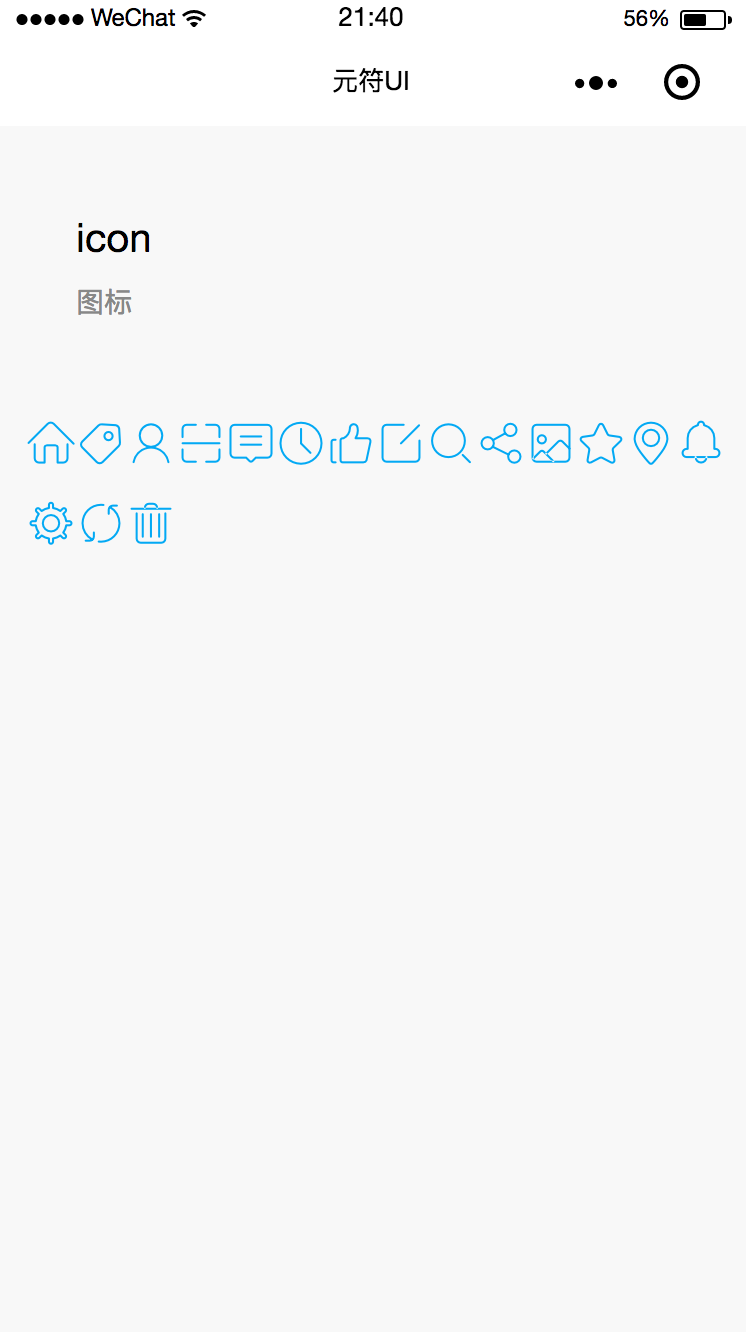
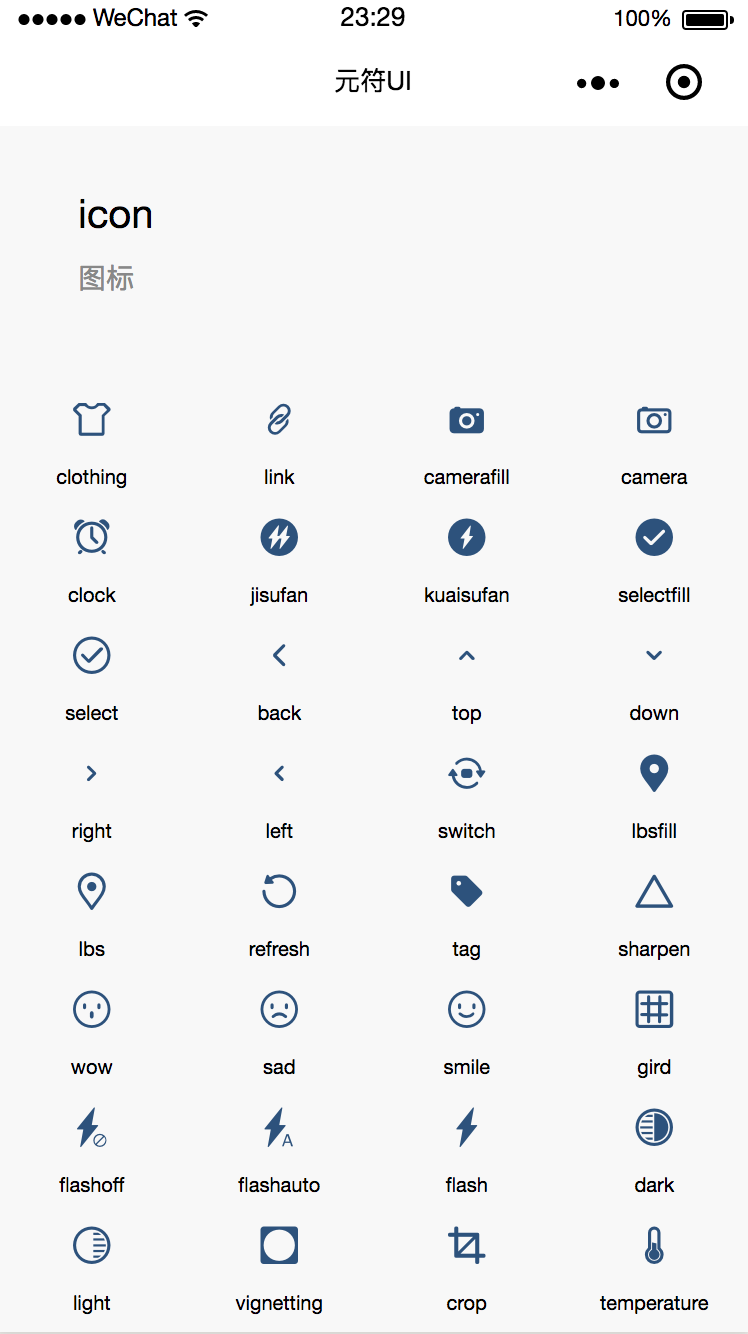
commit

diff --git a/README.md b/README.md
@@ -58,7 +58,7 @@
 * [float-button 浮动按钮](#float-button)
 * [popover 弹出菜单](#popover)
 * [noticebar 通告栏](#noticebar)
-* [icon 图标](#icon)（预览版）
+* [ico 图标](#ico)（预览版）
 * [tabs 标签页](#tabs)（预览版）
 * [loading 加载](#loading)（预览版）
 * [accordion 手风琴](#accordion)（预览版）
@@ -462,14 +462,15 @@
   ### 属性
   名称 | 类型 | 默认 | 描述
   --- | --- | --- | ---
+  theme   | String  | `blue`     | 插件主题<br/>支持：`orange`、`red`、`blue`、`green`
   visible | Boolean | `false`     | 是否显示
   content | String | ''     | 文案内容
   animation | Boolean | `true`     | 是否滚动
   show-closer | Boolean | `true`     | 是否显示关闭按钮
   font-size | String | `30rpx`     | 文字大小
   duration | String | `5s`     | 动画时长，与CSS3的`animation-duration`相同
-  icon | String | `[如图]`     | 左边图标（图片地址）
-  styles | Object | `{}`     | 插件自定义样式，支持：<br/>`backgroundColor` 通告栏背景色<br/>`contentColor` 内容文字颜色<br/>`closerColor` 关闭按钮颜色
+  icon | String | `tixing`     | 参考组件`ico`
+  styles | Object | `{}`     | 插件自定义样式，支持：<br/>`backgroundColor` 通告栏背景色<br/>`contentColor` 内容文字颜色<br/>`closerColor` 关闭按钮颜色<br/>`iconColor` 图标颜色
 
   ### 事件
   名称 | 参数 | 描述
@@ -519,51 +520,54 @@
 
 
 <details>
-<summary id="icon">
-  icon 图标 <code>>= v1.0.3</code>
+<summary id="ico">
+  ico 图标 <code>>= v1.0.3</code>
 </summary>
 
   ### 预览
   <div>
     <img width="40%" src="preview/icon.png" />
+    <img width="40%" src="preview/icon2.png" />
+    <img width="40%" src="preview/icon3.png" />
+    <img width="40%" src="preview/icon4.png" />
   </div>
 
   ### 属性
   名称 | 类型 | 默认 | 描述
   --- | --- | --- | ---
   theme   | String  | `blue`     | 插件主题<br/>支持：`orange`、`red`、`blue`、`green`
-  icon | String | ''     | 图标类型
+  ico | String | ''     | 图标类型，参考上图种类
   size | String | `40rpx`     | 图标大小
   color | String | ''     | 图标颜色，默认theme主题色
 
   ### 事件
   名称 | 参数 | 描述
   --- | --- | ---
-  tapicon  | `event` | 点击图标的事件，`event.detail.icon`为点击图标的类型
+  tapico  | `event` | 点击图标的事件，`event.detail.ico`为点击图标的类型
   ### 使用
   page.json
   ```json
   {
     "usingComponents": {
-      "yf-icon": "plugin://YuanFul/icon"
+      "ico": "plugin://YuanFul/ico"
     }
   }
   ```
 
   page.wxml
   ```html
-    <yf-icon
+    <ico
         theme="deep-blue"
-        icon="shouye"
+        ico="shouye"
         size="50rpx"
-        bind:tapicon="tapicon"
+        bind:tapico="tapico"
     />
   ```
 
   page.js
   ```javascript
     Page({
-        tapicon(event){
+        tapico(event){
             console.log(event.detail)
         }
     })
@@ -580,6 +584,7 @@
   ### 预览
   <div>
     <img width="40%" src="preview/tabs.png" />
+    <img width="40%" src="preview/tabs-vertical.png" />
   </div>
 
   ### 属性
@@ -588,8 +593,10 @@
   theme   | String  | `blue`     | 插件主题<br/>支持：`orange`、`red`、`blue`、`green`
   themetype | String | `border`     | 风格，支持`border`、`background`两种类型（如图）
   vertical | Boolean | `false`     | 是否是垂直
-  list | Array | `[]`     | 标题配置
+  slotname | String | `tabs`     | 内容`slot`的名称前缀
+  option | Array | `[]`     | 标题配置
   active-index | Number | `0`     | 默认激活位置
+  styles | Object | `{}`     | 插件自定义样式，支持：<br/>`color` 文字颜色<br/>`fontSize` 文字大小<br/>`background` 背景色<br/>`border` 边框
 
   ### 事件
   名称 | 参数 | 描述
@@ -609,17 +616,21 @@
   page.wxml
   ```html
     <tabs
-        theme="deep-blue"
-        list="{{ list }}"
+        option="{{ option }}"
         bind:change="onTabChange"
-    />
+        active-index="activeIndex"
+    >
+        <view slot="tabs0">内容1内容1内容1内容1内容1内容1内容1内容1内容1内容1内容1内容1内容1内容1</view>
+        <view slot="tabs1">内容2内容2内容2内容2内容2</view>
+        <view slot="tabs2">内容3</view>
+    </tabs> 
   ```
 
   page.js
   ```javascript
     Page({
         data: {
-            list: ['选项1', '选项2', '选项3'],
+            option: ['选项1', '选项2', '选项3'],
         },
         onTabChange(event) {
             console.log(event.detail)
@@ -643,9 +654,8 @@
   ### 属性
   名称 | 类型 | 默认 | 描述
   --- | --- | --- | ---
-  theme   | String  | `blue`     | 插件主题<br/>支持：`orange`、`red`、`blue`、`green`
   visible | Boolean | `true`     | 是否显示
-  type | String | `default`     | 加载动画类型
+  type | String | `default`     | 加载动画类型，支持：`default`、`cube`、`pulse`、`knock`、`fade-circle`、`rotate`
   modal | Boolean | `false`     | 是否是遮罩类型
 
   ### 使用
@@ -682,8 +692,8 @@
   名称 | 类型 | 默认 | 描述
   --- | --- | --- | ---
   theme   | String  | `blue`     | 插件主题<br/>支持：`orange`、`red`、`blue`、`green`
-  slotname | String | `accordion`     | 手风琴`slot`的名称前缀
-  list | Array | `[]`     | 标题配置
+  slotname | String | `accordion`     | 内容`slot`的名称前缀
+  option | Array | `[]`     | 标题配置
   active-index | Number | `-1`     | 默认展开的索引（-1表示默认不展开）
 
   ### 事件
@@ -705,7 +715,7 @@
   ```html
     <accordion
         theme="deep-blue"
-        list="{{list}}"
+        option="{{option}}"
         bind:change="onChangeDate"
     >
         <view slot="accordion0">内容1</view>
@@ -718,7 +728,7 @@
   ```javascript
     Page({
         data: {
-            list: [
+            option: [
                 '标题1',
                 '标题22',
                 '标题333',
